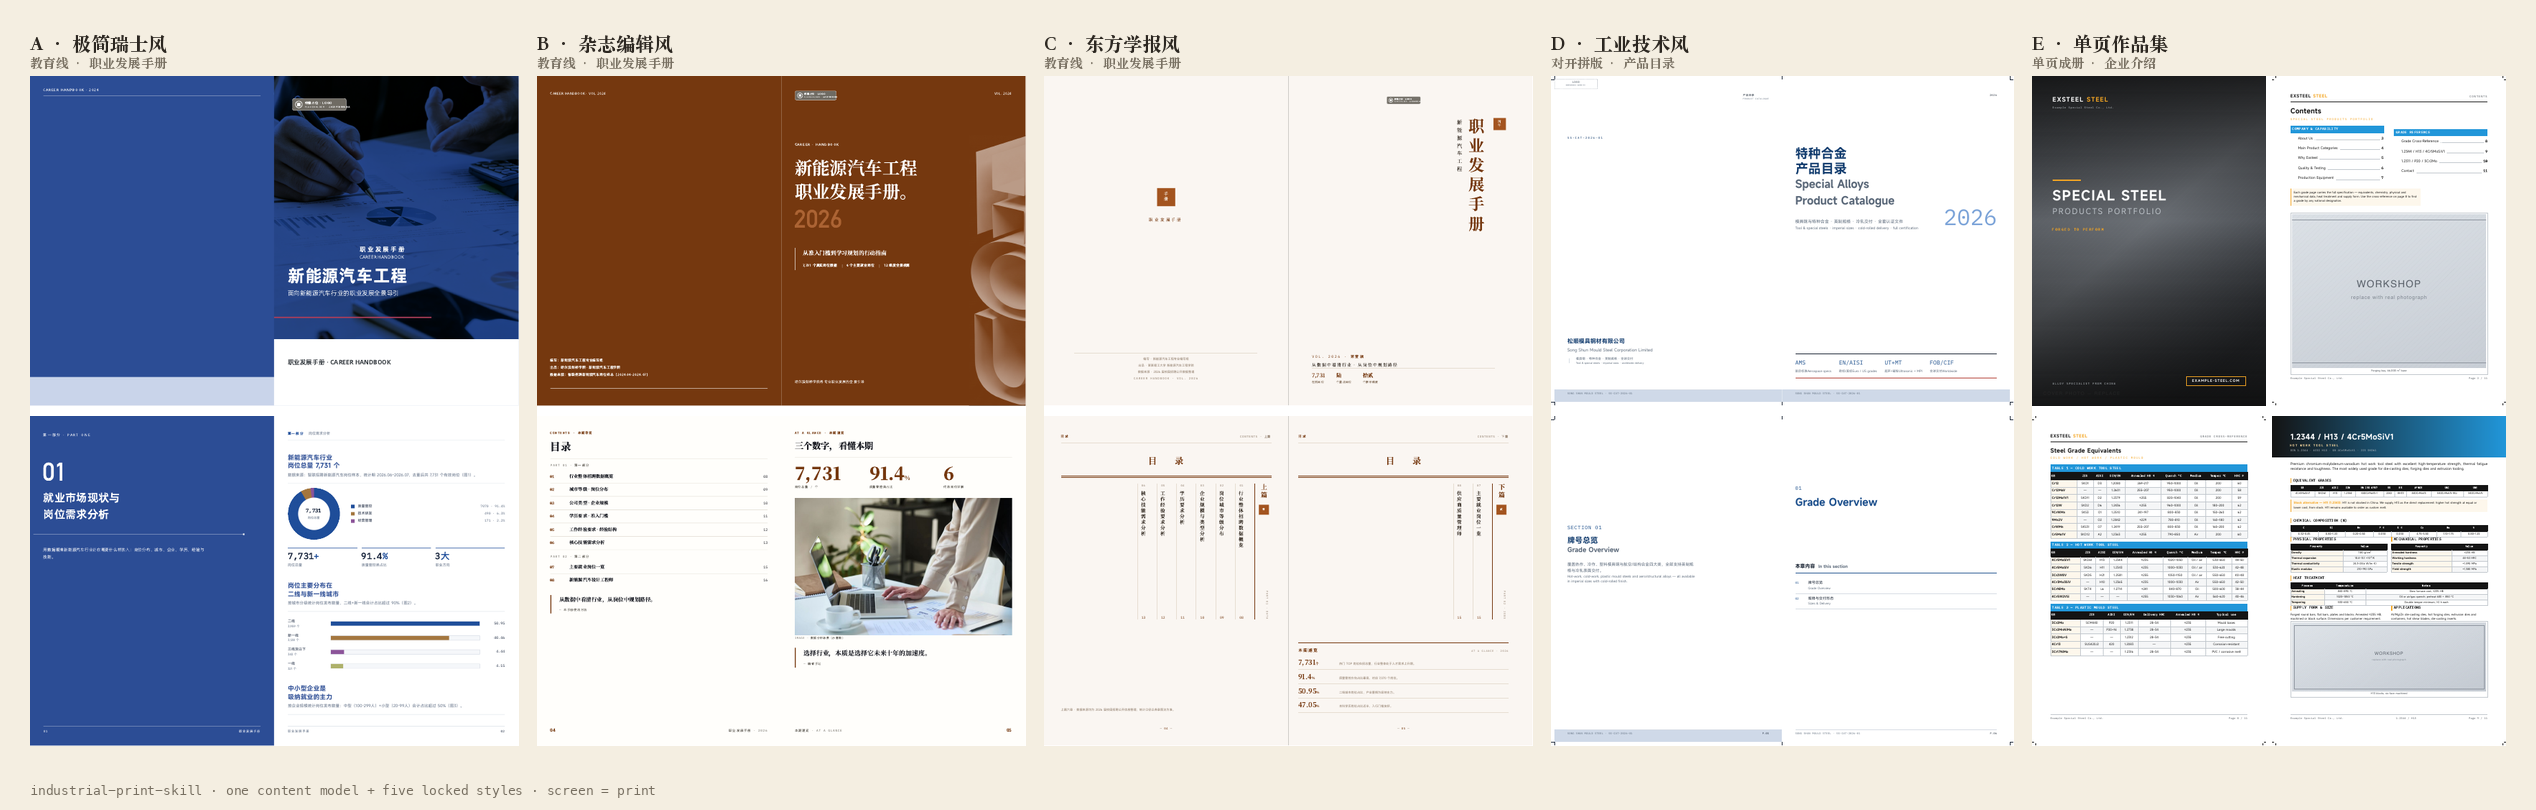
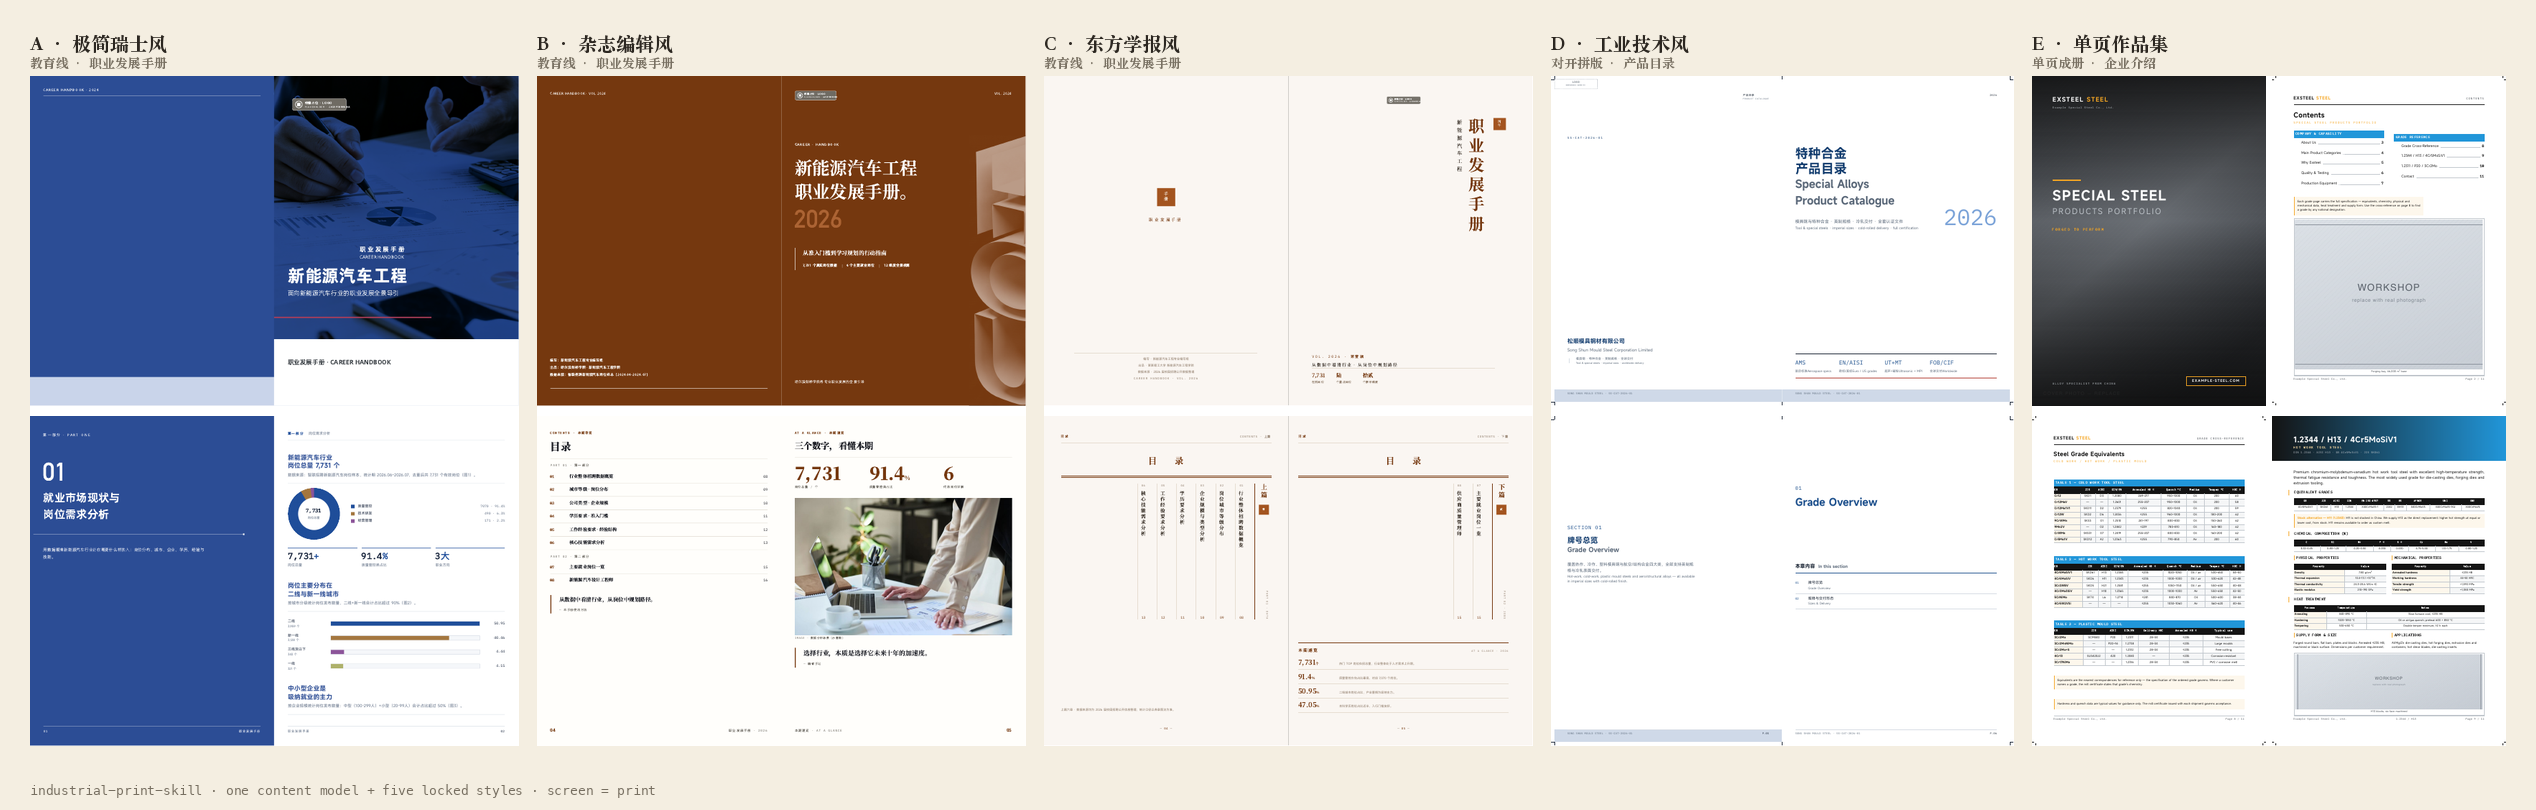
fix(E): 竖向分配 + 左缘重排，解决「顶部挤成一堆、页尾一片白」
上一版块直接从页顶往下排，内容撑不满就全剩白；单牌号页八块挤在
上半页反而更难读；左右 14mm 的边裁切后贴近刀口，表格外框压在边上发闷。

结构改动
- 每个块包一层 .blk：块间距由 page-body 的 gap 统一管（3mm），
  段落留在块内部按自己的段距排，不会被当成可分配的间隙。
- 页头（标题/副标/导语）独立成 .page-head，固定在版心顶部，
  不参与竖向分配——否则 center 会把标题拖到页面中间。
- 牌号横幅提到 page-body 之外，只做整幅出血，不参与分配。

竖向：剩余高度三个去处
- 托底图 photo fill：吃掉余量，最小 28mm（原来 44mm，密页会溢出）。
- spacer 块：grow 权重，把余量放在指定位置。
- valign：distribute(space-evenly) / center / bottom / top。
- 不写时自动选：有托底图或 spacer → 顶排；无吸收块且块数 ≥4 → distribute；
  1–3 块 → center。表页用 tables 当块数。

横向：左缘不再是一堵直墙
- 左右边距 14 → 17mm（3mm 出血 ±1mm 公差，14mm 到成品只剩 13mm）。
- 上下 15 / 19mm，视觉重心略高于几何中心。
- 顶层 .gh 的橙色竖线悬挂进左边距 5mm，正文仍对齐版心线，
  左边形成一条导标列；双栏内的 .gh 不悬挂，免得压到邻栏。
- 表格左右外缘去掉竖边框，只留横线；外框压在切口边上同样显挤。
- 行距 1.55 → 1.62，段落间距并入 3mm 节奏。

实测（11 页示例，chromium headless 打印）
- 逐页测 page-body 的 scrollHeight 与 clientHeight：全部 over=0，页脚不再被压。
- H13 页托底图 57mm，文字区留白增加而页面不溢出。
- 表页 3 表 + 2 注：分布后无页尾大洞，表组仍各自成块不拆散。
- 校验器新增：valign 类名合法性、page-head/banner 覆盖数、块化密度判定。

文档：SKILL 补「竖向怎么排」「边距与左缘」；E README 补分配表与 spacer；
checklist 补「标题没被拖走」「左边一条线干净」。

diff --git a/templates/E-portfolio/assets/blocks.css b/templates/E-portfolio/assets/blocks.css
@@ -26,11 +26,20 @@
   --sheet-w: calc(var(--trim-w) + 2 * var(--bleed));
   --sheet-h: calc(var(--trim-h) + 2 * var(--bleed));
 
-  /* ---- 版心（相对成品边）---- */
-  --pad-x: 14mm;
-  --pad-t: 13mm;
-  --pad-b: 20mm;
+  /* ---- 版心（相对成品边）----
+     左右 17mm 而不是 14mm：3mm 出血裁切有 ±1mm 公差，14mm 的边在成品上会变成 13mm，
+     一行字贴到切口旁边就显闷。17mm 是 A4 成册的常规下限。
+     上下不对称：上 15 / 下 19，视觉重心略高于几何中心，翻页时不压手。 */
+  --pad-x: 17mm;
+  --pad-t: 15mm;
+  --pad-b: 19mm;
   --foot-gap: 7mm;
+
+  /* ---- 竖向节奏：所有块间距取 3mm 的整数倍，避免 3.2 / 1.6 / 2.4 这种凑出来的缝 ---- */
+  --rhythm: 3mm;
+
+  /* ---- 悬挂导轨：小标题的竖线挂进左边距 5mm，正文仍对齐版心线 ---- */
+  --rail: 5mm;
 
   /* ---- 字体 ---- */
   --font: "MiSans", "Alibaba PuHuiTi 3", system-ui, sans-serif;
@@ -103,7 +112,15 @@ body {
   min-height: 0;
   display: flex;
   flex-direction: column;
+  gap: var(--rhythm);
 }
+
+/* 块单元：间距只发生在块与块之间。块内部的段落、表格行仍按自己的间距排，
+   不会被页面的 gap 撑开——这是「同一块里的文字要抱团、不同块之间要透气」的分界。 */
+.blk { min-width: 0; }
+.blk.fill { flex: 1; display: flex; flex-direction: column; min-height: 28mm; }
+.blk.fill .fill-photo { flex: 1; margin-top: 0; min-height: 0; }
+.blk > .gh:first-child { margin-top: 0; }
 
 /* ---- 裁切标记：画在出血区，沿 TrimBox 边缘，转角留 1mm 间隙 ---- */
 .crop { position: absolute; background: #000; }
@@ -124,8 +141,8 @@ body {
   justify-content: space-between;
   align-items: baseline;
   border-bottom: 2.2pt solid var(--fg);
-  padding-bottom: 2mm;
-  margin-bottom: 5mm;
+  padding-bottom: 2.4mm;
+  margin-bottom: 6mm;
   flex: 0 0 auto;
 }
 .ph .brand { font-size: 10.5pt; font-weight: 600; letter-spacing: 1pt; color: var(--fg); }
@@ -157,6 +174,12 @@ body {
 /* ============================================================
    标题
    ============================================================ */
+/* 页头（标题 + 副标 + 导语）是一整块，固定在版心顶部；
+   竖向分配只作用于它下面的正文块，标题不会跟着漂。 */
+.page-head { flex: 0 0 auto; padding-bottom: 5mm; }
+.page-head .sec-sub { margin-bottom: 0; }
+.page-head .lead { margin-top: var(--rhythm); margin-bottom: 0; }
+
 .sec-title { font-size: var(--fs-h1); font-weight: 600; letter-spacing: 0.4pt; line-height: 1.15; }
 .sec-sub {
   font-family: var(--mono);
@@ -173,17 +196,17 @@ body {
 /* ============================================================
    正文
    ============================================================ */
-.body { font-size: var(--fs-body); line-height: 1.55; text-align: justify; margin-bottom: 2.4mm; }
+.body { font-size: var(--fs-body); line-height: 1.62; text-align: justify; margin-bottom: var(--rhythm); }
 .body:last-child { margin-bottom: 0; }
 .mini { font-size: var(--fs-small); line-height: 1.5; }
-.lead { font-size: 9.6pt; line-height: 1.5; color: var(--fg); }
+.lead { font-size: 9.8pt; line-height: 1.55; color: var(--fg); }
 .note {
   background: var(--tint);
   border-left: 2.2pt solid var(--accent);
-  padding: 2mm 2.6mm;
-  margin: 2.4mm 0;
+  padding: 2.4mm 3mm;
+  margin: 0;
   font-size: 7.4pt;
-  line-height: 1.5;
+  line-height: 1.55;
 }
 .note b { color: var(--fg); }
 .note .nt { color: var(--accent); font-weight: 600; }
@@ -196,11 +219,20 @@ body {
   color: var(--fg);
   border-left: 2.5pt solid var(--accent);
   padding-left: 2mm;
-  margin: 3.2mm 0 1.6mm;
+  margin: calc(var(--rhythm) * 2) 0 var(--rhythm);
   letter-spacing: 0.5pt;
   text-transform: uppercase;
+  break-after: avoid;
 }
 .gh:first-child { margin-top: 0; }
+
+/* 顶层小标题把竖线挂进左边距：正文仍落在 17mm，橙色竖线退到 12mm。
+   左边因此出现一条「导标列」，不再是一堵从上到下的直墙。
+   只对 page-body 的直系子元素生效，双栏里的 .gh 不悬挂，免得压到相邻栏。 */
+.page-body > .blk > .gh {
+  margin-left: calc(-1 * var(--rail));
+  padding-left: var(--rail);
+}
 
 /* ---- 分类条 .cat-head ---- */
 .cat-head {
@@ -231,18 +263,23 @@ table { border-collapse: collapse; width: 100%; }
 }
 .tbl td {
   font-size: 7.2pt;
-  line-height: 1.35;
-  padding: 1mm;
+  line-height: 1.4;
+  padding: 1.15mm 1mm;
   text-align: center;
   border: 0.5pt solid var(--border);
 }
+/* 表格左右外缘不画竖线：一条硬边框压在切口边上，裁完会显得版心很挤。
+   去掉外框后表格仍是满幅，但视觉上「开口」了，纸边更透气。 */
+.tbl th:first-child, .tbl td:first-child { border-left: 0; }
+.tbl th:last-child,  .tbl td:last-child  { border-right: 0; }
 .tbl tbody tr:nth-child(even) td { background: var(--zebra); }
 .tbl .rowhead, .tbl td.rowhead { background: var(--tint) !important; font-weight: 600; text-align: left; }
-.tbl-sm th, .tbl-sm td { font-size: 6.8pt; padding: 0.8mm 0.7mm; }
-.tbl-xs th, .tbl-xs td { font-size: 6.4pt; padding: 0.7mm 0.5mm; }
-/* 密表页：整页都是表时放大一档，避免 6.4pt 在纸上过小 */
-.tblpage .tbl-sm th, .tblpage .tbl-sm td { font-size: 7.8pt; padding: 1.36mm 1.05mm; }
-.tblpage .tbl-xs th, .tblpage .tbl-xs td { font-size: 7.3pt; padding: 0.92mm 0.7mm; }
+.tbl-sm th, .tbl-sm td { font-size: 6.8pt; padding: 0.9mm 0.75mm; }
+.tbl-xs th, .tbl-xs td { font-size: 6.4pt; padding: 0.8mm 0.55mm; }
+/* 密表页：只有一页一表时才放大字号（6.4pt 在纸上确实小）；
+   两张以上就不要放大，否则整页必然溢出——这是实测出来的，不是拍脑袋。 */
+.tblpage.single .tbl-sm th, .tblpage.single .tbl-sm td { font-size: 7.8pt; padding: 1.36mm 1.05mm; }
+.tblpage.single .tbl-xs th, .tblpage.single .tbl-xs td { font-size: 7.3pt; padding: 0.92mm 0.7mm; }
 /* 对照表：首列左对齐，读起来才不像网格 */
 .ovtbl td { font-size: 7.4pt; }
 .ovtbl th { font-size: 7.2pt; }
@@ -251,10 +288,11 @@ table { border-collapse: collapse; width: 100%; }
 /* ============================================================
    封面
    ============================================================ */
+.sheet-cover { background: var(--fg); }
 .cover-img { position: absolute; inset: 0; width: 100%; height: 100%; object-fit: cover; }
 /* 封面压暗：三段渐层，保证任何照片上标题都读得出来。
    用固定 rgba 而不是 color-mix——印厂机器上的 PDF 解释器不必支持新语法。 */
-.cover-scrim {
+.sheet-cover.has-img .cover-scrim {
   position: absolute; inset: 0;
   background: linear-gradient(180deg,
     rgba(12, 12, 12, 0.86) 0%,
@@ -320,8 +358,8 @@ table { border-collapse: collapse; width: 100%; }
 .grade-banner {
   background: linear-gradient(90deg, var(--fg) 0%, var(--accent-2) 100%);
   color: #fff;
-  padding: calc(var(--bleed) + var(--pad-t)) calc(var(--bleed) + var(--pad-x)) 4mm;
-  margin: calc(-1 * (var(--bleed) + var(--pad-t))) calc(-1 * (var(--bleed) + var(--pad-x))) 4mm;
+  padding: calc(var(--bleed) + var(--pad-t)) calc(var(--bleed) + var(--pad-x)) 5mm;
+  margin: calc(-1 * (var(--bleed) + var(--pad-t))) calc(-1 * (var(--bleed) + var(--pad-x))) 8mm;
   flex: 0 0 auto;
 }
 .grade-banner .g1 { font-size: 19pt; font-weight: 600; letter-spacing: 0.4pt; line-height: 1.15; }
@@ -339,13 +377,13 @@ table { border-collapse: collapse; width: 100%; }
 /* ============================================================
    通用块
    ============================================================ */
-.twocol { display: flex; gap: 4mm; }
+.twocol { display: flex; gap: 5mm; }
 .twocol > div { flex: 1; min-width: 0; }
-.threecol { display: flex; gap: 3.5mm; }
+.threecol { display: flex; gap: 4mm; }
 .threecol > div { flex: 1; min-width: 0; }
 
 /* ---- 数字带 ---- */
-.kv { display: flex; gap: 3mm; margin: 3mm 0; }
+.kv { display: flex; gap: 3mm; margin: 0; }
 .kv .k { flex: 1; background: var(--tint); border-top: 2.2pt solid var(--accent); padding: 2.5mm 2mm; text-align: center; }
 .kv .k .n { font-family: var(--mono); font-size: 14pt; font-weight: 600; line-height: 1.1; }
 .kv .k .d { font-size: 7pt; color: var(--muted); margin-top: 1mm; line-height: 1.3; }
@@ -357,13 +395,13 @@ table { border-collapse: collapse; width: 100%; }
   line-height: 1.5;
   padding-left: 4mm;
   position: relative;
-  margin-bottom: 0.9mm;
+  margin-bottom: 1.2mm;
 }
 .dash li::before { content: "—"; position: absolute; left: 0; color: var(--accent); font-weight: 600; }
 .dash.compact li { line-height: 1.42; margin-bottom: 0.6mm; }
 
 /* ---- 编号论点（为什么选我们）---- */
-.adv { display: flex; gap: 4mm; margin-bottom: 6mm; }
+.adv { display: flex; gap: 4mm; margin-bottom: 5mm; }
 .adv:last-child { margin-bottom: 0; }
 .adv .no { font-family: var(--mono); font-size: 22pt; font-weight: 600; color: var(--border); line-height: 1; min-width: 12mm; }
 .adv .tt { font-size: 10.4pt; font-weight: 600; margin-bottom: 1.2mm; }
@@ -394,8 +432,8 @@ table { border-collapse: collapse; width: 100%; }
 .photos.c3 { grid-template-columns: 1fr 1fr 1fr; }
 .photos .cell { border: 0.6pt solid var(--border); background: var(--surface); padding: 1.2mm; }
 .photos .cell img { width: 100%; display: block; object-fit: cover; }
-.photos.c2 .cell img { height: 60mm; }
-.photos.c3 .cell img { height: 52mm; }
+.photos.c2 .cell img { height: 56mm; }
+.photos.c3 .cell img { height: 49mm; }
 .photos .cell .cap b { display: block; color: var(--fg); font-size: 7.2pt; font-weight: 600; }
 
 /* 页脚托底图：吃掉剩余高度，避免页尾留空。
@@ -407,7 +445,7 @@ table { border-collapse: collapse; width: 100%; }
   flex-direction: column;
   min-height: 46mm;
   overflow: hidden;
-  margin-top: 4mm;
+  margin-top: calc(var(--rhythm) * 2);
   border: 0.6pt solid var(--border);
   background: var(--surface);
   padding: 1.2mm;
@@ -438,6 +476,24 @@ table { border-collapse: collapse; width: 100%; }
 .contact-list .row .v { flex: 1; }
 .contact-foot { margin-top: auto; padding-top: 6mm; border-top: 2.2pt solid var(--fg); display: flex; justify-content: space-between; align-items: flex-end; }
 .contact-foot .big { font-size: 15pt; font-weight: 600; letter-spacing: 0.6pt; }
+
+/* ============================================================
+   竖向分配
+   ============================================================ */
+/* 内容不足时不要只把白留在页尾——在两个块之间插一个 spacer，
+   剩余高度就落在你想让它落的地方（比如标题与正文之间），而不是全堆在页脚上方。
+   grow 是权重：两个 spacer 各写 grow:1 就平分剩余高度。 */
+.spacer { flex: var(--grow, 1) 1 0; min-height: var(--min, 6mm); }
+
+/* 整页竖向对齐：短页（联系页、只有三四行的章节页）可以居中，
+   视觉上等于上下各留一半，比顶部对齐 + 底部大洞稳。慎用 bottom，容易顶头。 */
+.page-body.v-center { justify-content: center; }
+.page-body.v-bottom { justify-content: flex-end; }
+/* 均匀分布：把剩余高度摊到所有块间隙里，而不是全堆在页脚上方。
+   用 space-evenly 而不是 space-between——后者会把最后一个块顶到页脚线上，
+   看起来像被挤下去的；evenly 上下各留一份，视觉上更稳。 */
+.page-body.v-distribute { justify-content: space-evenly; }
+.page-body.v-between { justify-content: space-between; }
 
 /* ============================================================
    双语

diff --git a/templates/E-portfolio/README.md b/templates/E-portfolio/README.md
@@ -60,12 +60,27 @@ python _shared/pdf_print_marks.py 企业介绍.pdf -o 企业介绍-送印.pdf
 
 ## 块类型
 
-`text` `table` `twin` `note` `kv` `dash` `dashgroups` `adv` `photos` `photo` `bleed` `chips` `twocol`
+`text` `table` `twin` `note` `kv` `dash` `dashgroups` `adv` `photos` `photo` `bleed` `chips` `twocol` `spacer`
 
-两个要点：
+三个要点：
 
-- **`photo` 的 `fill:true`** 是 E 的收尾机制——吃掉页面剩余高度。每页内容不足时，用它把页尾压住。
+- **`photo` 的 `fill:true`** 是 E 的收尾机制——吃掉页面剩余高度，最小缩到 28mm。每页内容不足时，用它把页尾压住。
+- **`spacer`** 把剩余高度放在你指定的位置，`grow` 是权重。两个 spacer 各 `grow:1` 就平分。
 - **`table` 的 `first:"col"`** 把首列变成行标题（浅底、左对齐、加粗），对照表必须用。
+
+## 竖向分配
+
+页面正文是一列块，块间距 3mm。剩余高度不写规则时由构建脚本自动处理：
+
+| 页面状态 | 默认行为 |
+|---|---|
+| 有 `photo fill` 或 `spacer` | 顶部起排，剩余给吸收块 |
+| 无吸收块、块数 ≥4 | `distribute`：剩余摊进块间（space-evenly） |
+| 无吸收块、块数 1–3 | `center`：整块居中 |
+
+要覆盖就写 `page.valign`：`top` / `center` / `bottom` / `distribute` / `between`。
+
+页头（标题 + 副标 + 导语）是独立的 `.page-head`，固定在版心顶部，不参与分配——否则标题会被 `center` 拖到页面中间。
 
 完整字段见根目录 `SKILL.md` 的「页面与块」表。
 
@@ -78,7 +93,7 @@ python _shared/pdf_print_marks.py 企业介绍.pdf -o 企业介绍-送印.pdf
 
 ## 常见问题
 
-**页面下半页空。** 缺托底图。`blocks` 末尾加 `{ "type": "photo", "fill": true, "src": "…" }`。
+**页面下半页空。** 缺托底图或 spacer。`blocks` 末尾加 `{ "type": "photo", "fill": true, "src": "…" }`；也可以在标题与正文之间插 `{ "type": "spacer", "grow": 1 }`，把余量放在那里而不是页尾。
 
 **目录页码是空白。** `items[].ref` 要写页面的 `id`，不是标题。也可以临时用 `"page": "8"` 写死。
 

diff --git a/templates/E-portfolio/references/checklist.md b/templates/E-portfolio/references/checklist.md
@@ -17,8 +17,11 @@
 
 ## P1 · 影响观感，应该改
 
-- [ ] **每页页尾不留大洞**。内容写完后剩余空白超过约 40mm 的页，要么加托底图，要么补内容块。
+- [ ] **每页页尾不留大洞**。内容写完后剩余空白超过约 40mm 的页，加托底图、加 `spacer`，或用 `valign: distribute` 把余量摊进块间。
+- [ ] **标题没被竖向分配拖走**。`center` / `distribute` 只作用于正文块；标题应始终贴版心顶部。若标题漂到页面中部，检查是否误把标题写进了 `blocks`。
 - [ ] **一页一个主体**。出现「两个牌号挤一页」「一页讲三件事」→ 拆页。
+- [ ] **块间距一致**。同一页里不应出现 3mm 与 12mm 混排（除非是 spacer 有意为之）。
+- [ ] **左边一条线干净**。小标题的橙色竖线悬挂在 12mm，正文与表格落在 17mm；不应出现两种缩进打架。
 - [ ] **牌号页字段齐全**。对照表、成分、物理、力学、热处理、供货形式、应用，七项缺一不可（缺的项如果没有数据，写「按订单」而不是留空）。
 - [ ] **对照表首列是行标题**。浅底、左对齐、加粗，否则读者会在网格里迷路。
 - [ ] **数字带不超过 4 格**。5 格以上在 A4 宽度下每格小于 33mm，数字会挤。
